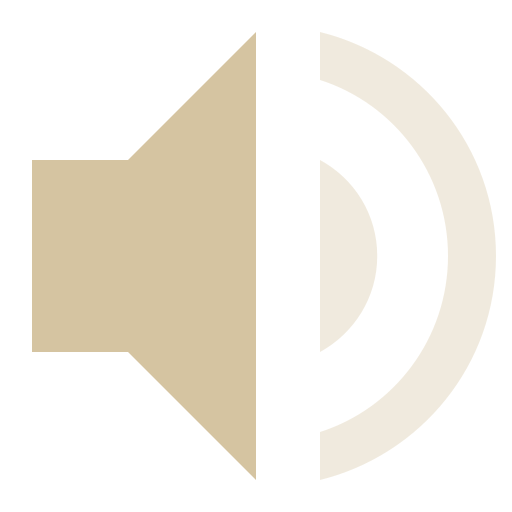
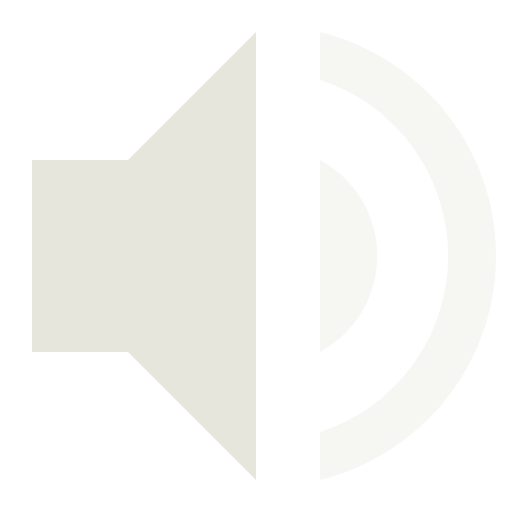
rigel

Changed region(s): [[0.0625, 0.0625, 0.5, 0.9375]]

diff --git a/config/waybar/style.css b/config/waybar/style.css
@@ -1,22 +1,22 @@
-@define-color base00 #1d2021;
-@define-color base01 #3c3836;
-@define-color base02 #504945;
-@define-color base03 #665c54;
-@define-color base04 #bdae93;
-@define-color base05 #d5c4a1;
-@define-color base06 #ebdbb2;
-@define-color base07 #fbf1c7;
-@define-color base08 #fb4934;
-@define-color base09 #fe8019;
-@define-color base0A #fabd2f;
-@define-color base0B #b8bb26;
-@define-color base0C #8ec07c;
-@define-color base0D #83a598;
-@define-color base0E #d3869b;
-@define-color base0F #d65d0e;
-@define-color foreground #d5c4a1;
-@define-color background #1d2021;
-@define-color focus #fe8019;
+@define-color base00 #002635;
+@define-color base01 #3A565F;
+@define-color base02 #576E74;
+@define-color base03 #738689;
+@define-color base04 #ADB6B3;
+@define-color base05 #e6e6dc;
+@define-color base06 #E8E8DF;
+@define-color base07 #EAEAE2;
+@define-color base08 #c43060;
+@define-color base09 #f08e48;
+@define-color base0A #ffcc1b;
+@define-color base0B #7fc06e;
+@define-color base0C #00cccc;
+@define-color base0D #1c8db2;
+@define-color base0E #c694ff;
+@define-color base0F #00384d;
+@define-color foreground #e6e6dc;
+@define-color background #002635;
+@define-color focus #b7cff9;
 
 * {
     border: none;

diff --git a/config/eww/eww.scss b/config/eww/eww.scss
@@ -1,6 +1,7 @@
-$foreground: #d5c4a1;
-$background: #1d2021;
-$focus: #fe8019;
+$foreground: #e6e6dc;
+$background: #002635;
+$backgroundrgba: rgba(0,38,53,0.8);
+$focus: #b7cff9;
 
 * { 
     all: unset;
@@ -10,7 +11,7 @@ $focus: #fe8019;
 }
 
 .bar { 
-    background: rgba(46, 46, 48, 0.8);
+    background: $backgroundrgba;
     text-shadow: 0px 0px 1px black;
 
 }

diff --git a/config/qutebrowser/config.py b/config/qutebrowser/config.py
@@ -18,23 +18,23 @@ c.url.searchengines['nw'] = "https://nixos.wiki/?search={}"
 c.url.searchengines['w'] = "https://en.wikipedia.org/wiki/?search={}"
 c.url.searchengines['y'] = "https://www.youtube.com/results?search_query={}"
 
-base00 = "#1d2021"
-base01 = "#3c3836"
-base02 = "#504945"
-base03 = "#665c54"
-base04 = "#bdae93"
-base05 = "#d5c4a1"
-base06 = "#ebdbb2"
-base07 = "#fbf1c7"
-base08 = "#fb4934"
-base09 = "#fe8019"
-base0A = "#fabd2f"
-base0B = "#b8bb26"
-base0C = "#8ec07c"
-base0D = "#83a598"
-base0E = "#d3869b"
-base0F = "#d65d0e"
-focus = "#fe8019"
+base00 = "#002635"
+base01 = "#3A565F"
+base02 = "#576E74"
+base03 = "#738689"
+base04 = "#ADB6B3"
+base05 = "#e6e6dc"
+base06 = "#E8E8DF"
+base07 = "#EAEAE2"
+base08 = "#c43060"
+base09 = "#f08e48"
+base0A = "#ffcc1b"
+base0B = "#7fc06e"
+base0C = "#00cccc"
+base0D = "#1c8db2"
+base0E = "#c694ff"
+base0F = "#00384d"
+focus = "#b7cff9"
 
 c.colors.completion.category.bg = focus
 c.colors.completion.category.border.bottom = base00
